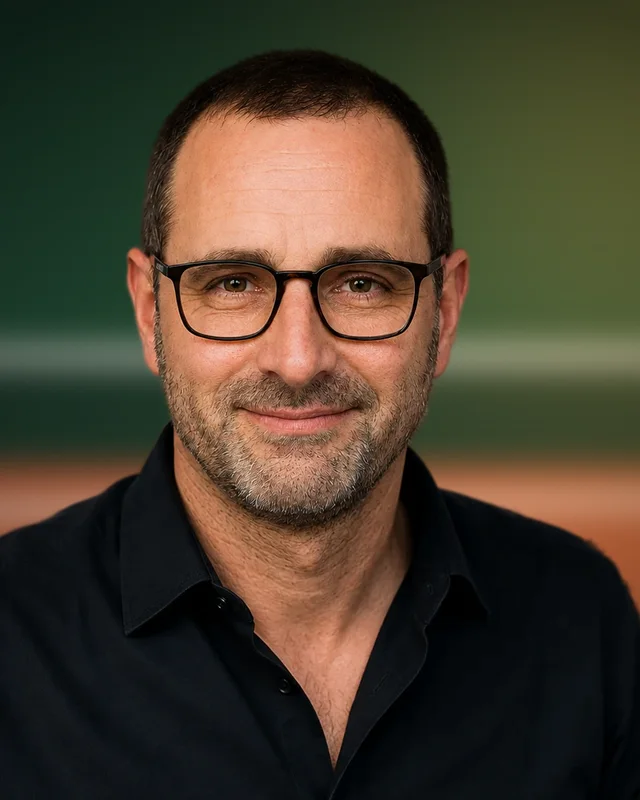
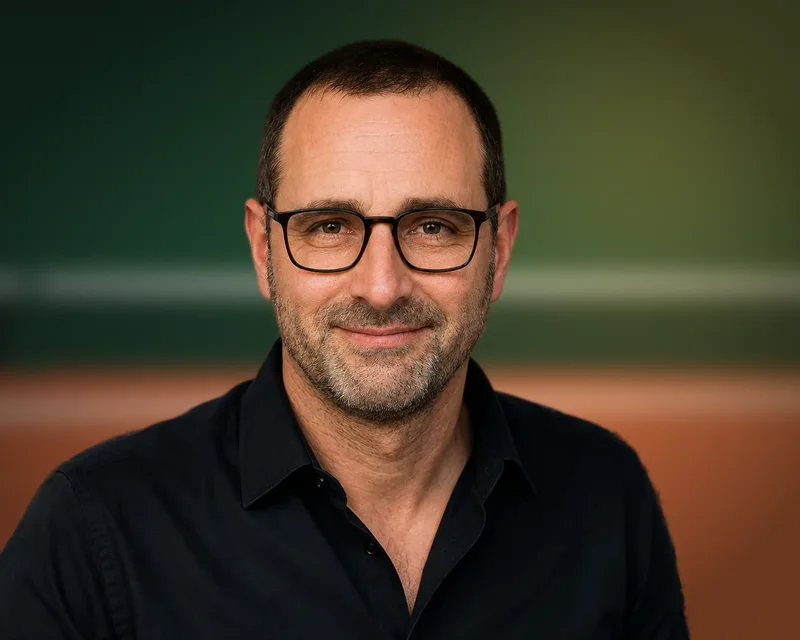
Christian-Foto in der Magazin-Sidebar im Querformat, damit der Sandplatz sichtbar bleibt

diff --git a/app/[market]/magazin/page.tsx b/app/[market]/magazin/page.tsx
@@ -197,8 +197,8 @@ export default async function MagazineOverviewPage() {
                     className="article-card-page-photo"
                     src={staticAsset(SIDEBAR_PAGE_IMAGES[page.slug].src)}
                     alt={SIDEBAR_PAGE_IMAGES[page.slug].alt}
-                    width={640}
-                    height={800}
+                    width={800}
+                    height={640}
                     loading="lazy"
                     decoding="async"
                   />

diff --git a/app/globals.css b/app/globals.css
@@ -1257,7 +1257,7 @@ a.social-bubble:hover {
   display: block;
   width: 100%;
   height: auto;
-  aspect-ratio: 4 / 5;
+  aspect-ratio: 5 / 4;
   object-fit: cover;
   border-radius: 18px;
 }
